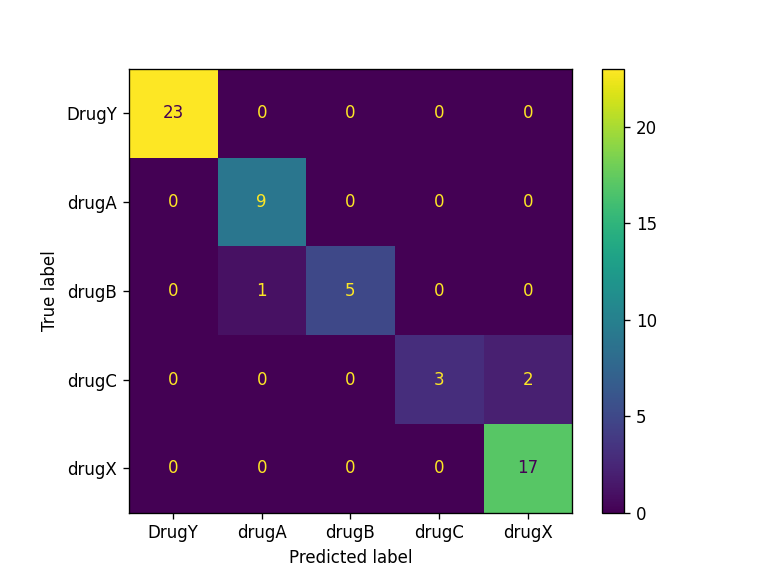
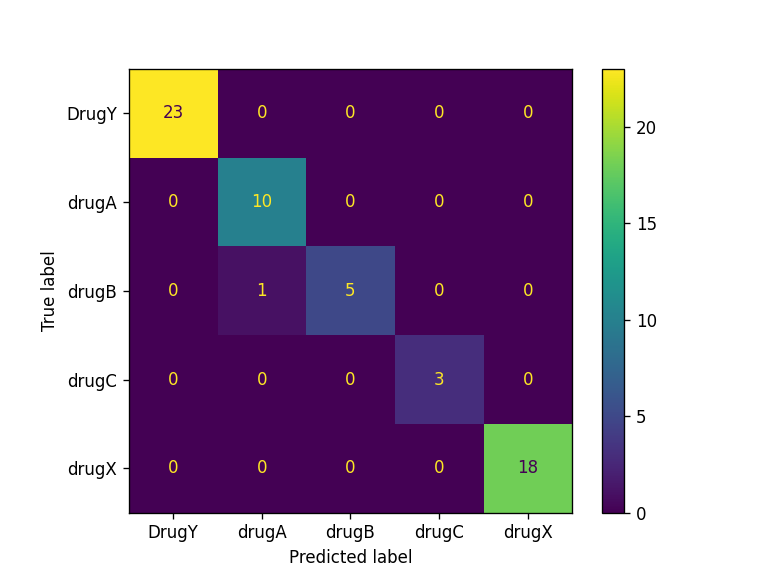
Update CML report and results [CI]

Changed region(s): [[0.625, 0.5625, 0.75, 0.9062], [0.3125, 0.3438, 0.3438, 0.375]]

diff --git a/report.md b/report.md
@@ -1,0 +1,5 @@
+## Model Metrics
+
+Accuracy = 0.98, F1 Score = 0.97.
+## Confusion Matrix Plot
+![Confusion Matrix](./Results/model_results.png)
